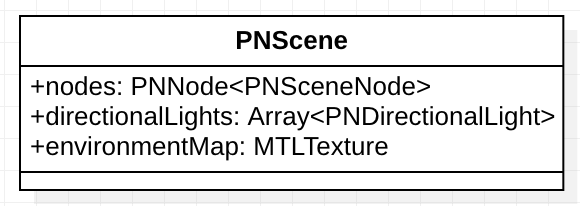
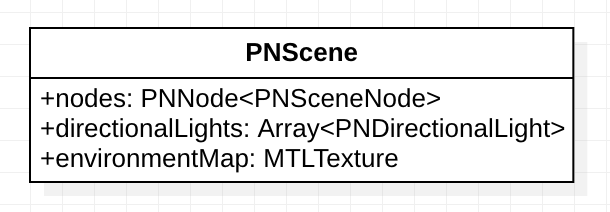
Improve quality of diagrams

Changed region(s): [[0.031, 0.0583, 0.9931, 0.932], [0.0621, 0.9612, 0.9931, 0.9903]]

diff --git a/chapters/available_solutions/3d_engines/scenekit.tex b/chapters/available_solutions/3d_engines/scenekit.tex
@@ -1,7 +1,7 @@
 \subsubsection{SceneKit}
 \begin{figure}
     \begin{center}
-        \includegraphics[width=15cm]{images/engines/scene-kit/editor.jpg}
+        \includegraphics[width=15cm]{images/engines/scene-kit/editor.png}
     \end{center}
     \caption{Edytor treści w silniku SceneKit}
     \label{fig:scenekit-editor}
